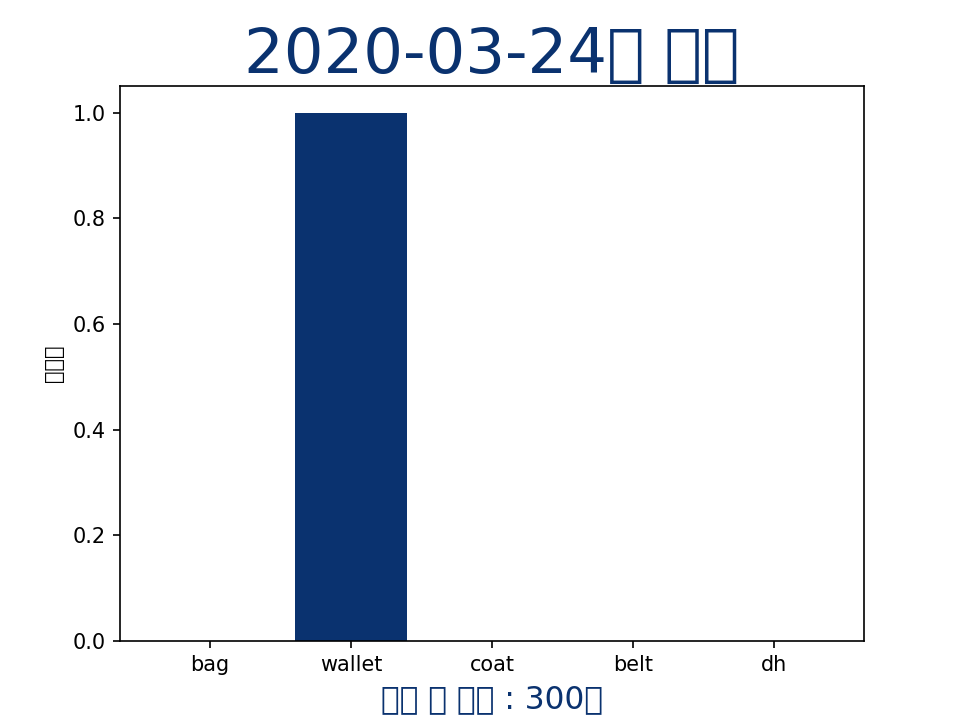
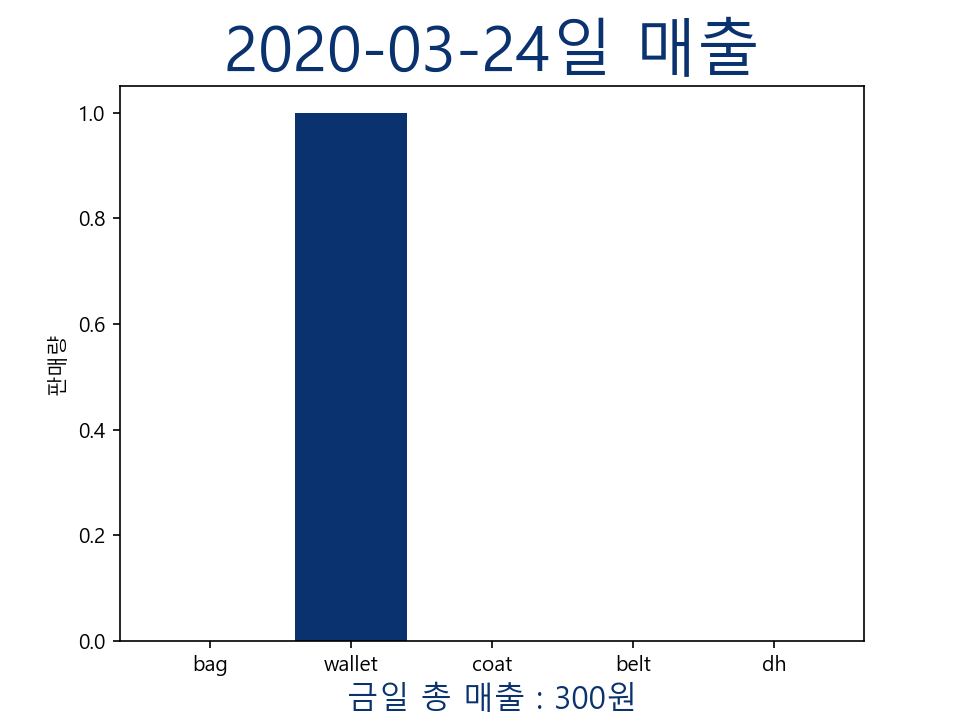
대머리

diff --git a/SJ/QR/200326_mk_db_qr.py b/SJ/QR/200326_mk_db_qr.py
@@ -1,0 +1,33 @@
+import pymysql
+
+con = pymysql.connect(host="192.168.0.19", user="root", password="1234",db='mydb', charset='utf8')
+codenum=['cnb249',1]
+
+cur = con.cursor()
+sql='ALTER TABLE pro_info MODIFY inventory int'
+cur.execute(sql)
+
+sql="select inventory from pro_info where codenum=%s"
+numb=cur.execute(sql,(codenum[0]))
+data=[list(data_use) for data_use in cur.fetchall()]
+print(data)
+for i in range(numb):
+    for j in range(0,1):
+        inventory=data[i]
+        print(inventory)
+        if inventory[0]-codenum[1]>=0:
+            inventory[0]-=codenum[1] #바코드 스캔시 감소되게 처리
+        else:
+            print("재고 처리가 반영되지 않았습니다.")
+            
+print(inventory[0])
+con.commit()
+
+sql="update pro_info set inventory=%s where codenum=%s" #초기 10 -1 한 9값을 재고에서 초기화 하는 부분
+cur.execute(sql,(inventory[0], codenum[0]))
+con.commit()
+
+sql='ALTER TABLE pro_info MODIFY inventory varchar(20)'
+cur.execute(sql)
+con.commit()
+con.close()

diff --git a/SJ/QR/minkuyung_db_qr.py b/SJ/QR/minkuyung_db_qr.py
@@ -1,0 +1,33 @@
+import pymysql
+
+con = pymysql.connect(host="192.168.0.19", user="root", password="1234",db='mydb', charset='utf8')
+codenum=['cnb249',1]
+
+cur = con.cursor()
+sql='ALTER TABLE pro_info MODIFY inventory int'
+cur.execute(sql)
+
+sql="select inventory from pro_info where codenum=%s"
+numb=cur.execute(sql,(codenum[0]))
+data=[list(data_use) for data_use in cur.fetchall()]
+print(data)
+for i in range(numb):
+    for j in range(0,1):
+        inventory=data[i]
+        print(inventory)
+        if inventory[0]-codenum[1]>=0:
+            inventory[0]-=codenum[1] #바코드 스캔시 감소되게 처리
+        else:
+            print("재고 처리가 반영되지 않았습니다.")
+            
+print(inventory[0])
+con.commit()
+
+sql="update pro_info set inventory=%s where codenum=%s" #초기 10 -1 한 9값을 재고에서 초기화 하는 부분
+cur.execute(sql,(inventory[0], codenum[0]))
+con.commit()
+
+sql='ALTER TABLE pro_info MODIFY inventory varchar(20)'
+cur.execute(sql)
+con.commit()
+con.close()

diff --git a/SJ/mae_chull/goods_individual.py b/SJ/mae_chull/goods_individual.py
@@ -6,20 +6,22 @@ cur = con.cursor()
 print("원하는 날짜를 입력 하시오 예) 2020-03-24")
 date=str(input())
 print("판매량이 궁금한 상품의 번호를 입력 하시오")
-want_goods=int(input())
+want_goods=int(input())#1 str
 cnt=0
 
 
 sql='select idproducts from timetable where date1=%s'
 num=cur.execute(sql,(date))
 goods_li=[data[0] for data in cur.fetchall()]
+print(goods_li)
 try:
     for i in range(num):
         if goods_li[i]==want_goods:
             cnt+=1
     print(cnt)
-    sql="select unitprice from pro_info where idproducts=%s"
-    num_price=cur.execute(sql,(want_goods))
+    #day_sell=cnt 팔린갯수를 day_sell
+    sql="select unitprice from pro_info where idproducts=%s"#2 code
+    num_price=cur.execute(sql,(want_goods))#3
     price=[column[0] for column in cur.fetchall()]
     sales=int(price[0])*cnt
     print("{0}번 상품 판매금액: {1}".format(want_goods,sales))

diff --git a/SJ/etc/select_all.py b/SJ/etc/select_all.py
@@ -1,14 +1,14 @@
 import pymysql
 
-con = pymysql.connect(host="192.168.0.19", user="root", password="1234",db='mydb', charset='utf8')
+con = pymysql.connect(host="192.168.0.19", user="erum", password="1234",db='mydb', charset='utf8')
 
 cur = con.cursor()
 
-#cur.execute("desc graph")
-#print([column[0] for column in cur.fetchall()])
+cur.execute("desc pro_info")
+print([column[0] for column in cur.fetchall()])
 
 #sql='select idproducts from timetable where date1=%s'
-sql='select * from timetable'
+sql='select * from pro_info'
 num=cur.execute(sql)
 #num=cur.execute(sql,(date))
 print(num)

diff --git a/SJ/mae_chull/0325_auto_all_sell.py b/SJ/mae_chull/0325_auto_all_sell.py
@@ -5,7 +5,7 @@ import matplotlib.font_manager as fm
 con = pymysql.connect(host="192.168.0.19", user="root", password="1234",db='mydb', charset='utf8')
 
 fm.get_fontconfig_fonts()
-font_location = 'C:/windows/Fonts/namsan.ttf'
+font_location = 'C:/Windows/Fonts/malgun.ttf'
 #font_location = 'C:/Users/JSJ_Note_Book/Documents/카카오톡 받은 파일/namsan.ttf'
 
 font_name= fm.FontProperties(fname=font_location).get_name()

diff --git a/SJ/etc/modify.py b/SJ/etc/modify.py
@@ -3,7 +3,9 @@ import pymysql
 con = pymysql.connect(host="192.168.0.19", user="root", password="1234",db='mydb', charset='utf8')
 
 cur = con.cursor()
-sql='ALTER TABLE pro_info DROP COLUMN sale_amount'
+#sql='ALTER TABLE pro_info DROP COLUMN sale_amount'
+sql='ALTER TABLE pro_info MODIFY inventory varchar(20)'
+
 
 #sql='alter table timetable modify date1 varchar(20)' 
 cur.execute(sql)
